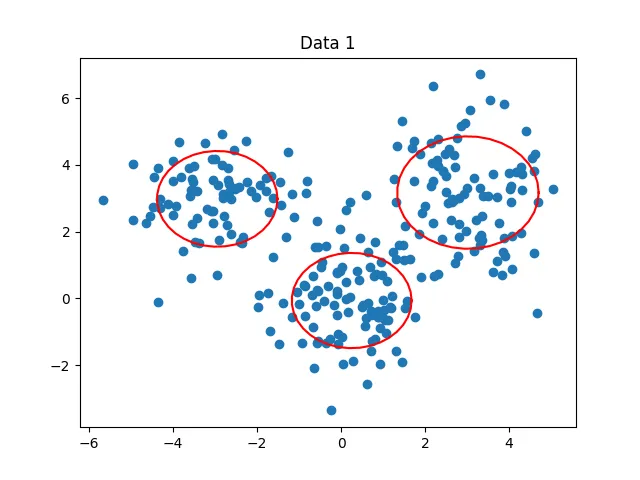
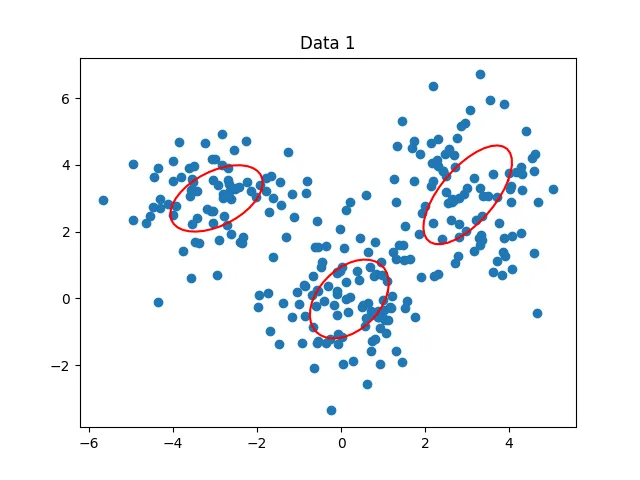
finished E2

diff --git a/Exercise 2/q2_expectation_maximization_python/EStep.py b/Exercise 2/q2_expectation_maximization_python/EStep.py
@@ -3,21 +3,22 @@ from getLogLikelihood import getLogLikelihood
 
 
 def EStep(means, covariances, weights, X):
-    """
-    Expectation step of the EM Algorithm for Gaussian Mixture Models.
-    
-    INPUT:
-    means         : Mean for each Gaussian, shape (K, D)
-    covariances   : Covariance matrices for each Gaussian, shape (D, D, K)
-    weights       : Weight vector for K Gaussians, shape (K,)
-    X             : Input data, shape (N, D)
-    
-    OUTPUT:
-    logLikelihood : Log-likelihood (a scalar)
-    gamma         : NxK matrix of responsibilities for N datapoints and K Gaussians
-    """
+    # Expectation step of the EM Algorithm
+    #
+    # INPUT:
+    # means : Mean for each Gaussian KxD
+    # weights : Weight vector 1xK for K Gaussians
+    # covariances : Covariance matrices for each Gaussian DxDxK
+    # X : Input data NxD
+    #
+    # N is number of data points
+    # D is the dimension of the data points
+    # K is number of Gaussians
+    #
+    # OUTPUT:
+    # logLikelihood : Log-likelihood (a scalar).
+    # gamma : NxK matrix of responsibilities for N datapoints and K Gaussians
 
-    # Konvertiere Eingaben in NumPy-Arrays, falls sie es noch nicht sind
     means = np.array(means)             # Shape: (K, D)
     covariances = np.array(covariances) # Shape: (D, D, K)
     weights = np.array(weights)         # Shape: (K,)
@@ -25,45 +26,33 @@ def EStep(means, covariances, weights, X):
     
     N, D = X.shape
     K = means.shape[0]
-    
-    # Initialisiere die Gamma-Matrix
     gamma = np.zeros((N, K))
     
-    # Berechne die Wahrscheinlichkeit p(xn | j) für jede Komponente und jeden Datenpunkt
     for k in range(K):
         mean = means[k]                   # Shape: (D,)
         covariance = covariances[:, :, k] # Shape: (D, D)
         weight = weights[k]               # Skalar
         
         try:
-            inv_cov = np.linalg.inv(covariance)  # Inverse der Kovarianzmatrix
-            det_cov = np.linalg.det(covariance)  # Determinante der Kovarianzmatrix
+            inv_cov = np.linalg.inv(covariance)  
+            det_cov = np.linalg.det(covariance)  
         except np.linalg.LinAlgError:
             raise np.linalg.LinAlgError(f"Die Kovarianzmatrix für Komponente {k} ist singulär.")
         
-        # Berechne die Differenz zwischen Datenpunkten und Mittelwert
         diff = X - mean  # Shape: (N, D)
-        
-        # Berechne den Exponenten der Gaußschen PDF
+        normalization = 1 / (((2 * np.pi) ** (D / 2)) * (det_cov ** 0.5))
+
+        # Compute exponent for all datapoints
         exponent = -0.5 * np.sum(diff @ inv_cov * diff, axis=1)  # Shape: (N,)
         
-        # Berechne die Normalisierungskonstante
-        norm_const = 1 / (((2 * np.pi) ** (D / 2)) * (det_cov ** 0.5))
+        pdf = normalization * np.exp(exponent)  # Shape: (N,)
         
-        # Berechne die Wahrscheinlichkeit p(xn | j)
-        pdf = norm_const * np.exp(exponent)  # Shape: (N,)
-        
-        # Berechne die gewichtete Wahrscheinlichkeit
         gamma[:, k] = weight * pdf  # Shape: (N,)
     
-    # Berechne die Gesamtheit der Wahrscheinlichkeiten für jede Datenpunkt
+    
     total_prob = np.sum(gamma, axis=1, keepdims=True)  # Shape: (N, 1)
-    
-    # Normalisiere die Gamma-Matrix, um die Verantwortlichkeiten zu erhalten
     gamma /= total_prob  # Shape: (N, K)
-    
-    # Berechne die Log-Likelihood
-    # Verwende die vorhandene getLogLikelihood-Funktion
+
     logLikelihood = getLogLikelihood(means, weights, covariances, X)
     
     return logLikelihood, gamma

diff --git a/Exercise 2/q2_expectation_maximization_python/MStep.py b/Exercise 2/q2_expectation_maximization_python/MStep.py
@@ -32,21 +32,17 @@ def MStep(gamma, X):
 
     covariances = np.zeros((D, D, K))
     for k in range(K):
-        # Differenz zwischen Datenpunkten und dem neuen Mittelwert
+        # diffrence between each datepoint and the current mean
         diff = X - means[k]  # Shape: (N, D)
         
-        # Gewichtete Summe der äußeren Produkte
+        # 
         weighted_diff = gamma[:, k][:, np.newaxis] * diff  # Shape: (N, D)
         cov_k = np.dot(weighted_diff.T, diff) / N_k[k]  # Shape: (D, D)
         
-        # Optional: Regularisierung der Kovarianzmatrizen, um Singularitäten zu vermeiden
-        # Hier wird eine kleine Diagonalkomponente hinzugefügt
-        reg = 1e-6 * np.eye(D)
-        cov_k += reg
         
         covariances[:, :, k] = cov_k  # Shape: (D, D)
         
-    # Berechnung der Log-Likelihood mit den aktualisierten Parametern
+    # calculate new likelihood
     logLikelihood = getLogLikelihood(means, weights, covariances, X)
 
     return weights, means, covariances, logLikelihood

diff --git a/Exercise 2/q2_expectation_maximization_python/estGaussMixEM.py b/Exercise 2/q2_expectation_maximization_python/estGaussMixEM.py
@@ -44,4 +44,15 @@ def estGaussMixEM(data, K, n_iters, epsilon):
 
 
     #####Insert your code here for subtask 6e#####
+    # regularization to avoid singularities
+    for k in range(K):
+        covariances[:, :, k] = regularize_cov(covariances[:, :, k], epsilon)
+
+    for iter in range(n_iters):
+        E, gamma = EStep(means, covariances, weights, data)
+        weights, means, covariances, M = MStep(gamma, data)
+
+        #print("{0}: {1}".format(iter, E-M))
+
+
     return [weights, means, covariances]

diff --git a/Exercise 2/q2_expectation_maximization_python/parameters.py b/Exercise 2/q2_expectation_maximization_python/parameters.py
@@ -1,5 +1,5 @@
 def parameters():
-    epsilon = 0.0001 # regularization
+    epsilon = 1e-6 # regularization old: 0.0001     
     K = 3  # number of desired clusters
     n_iter = 5  # number of iterations
 
